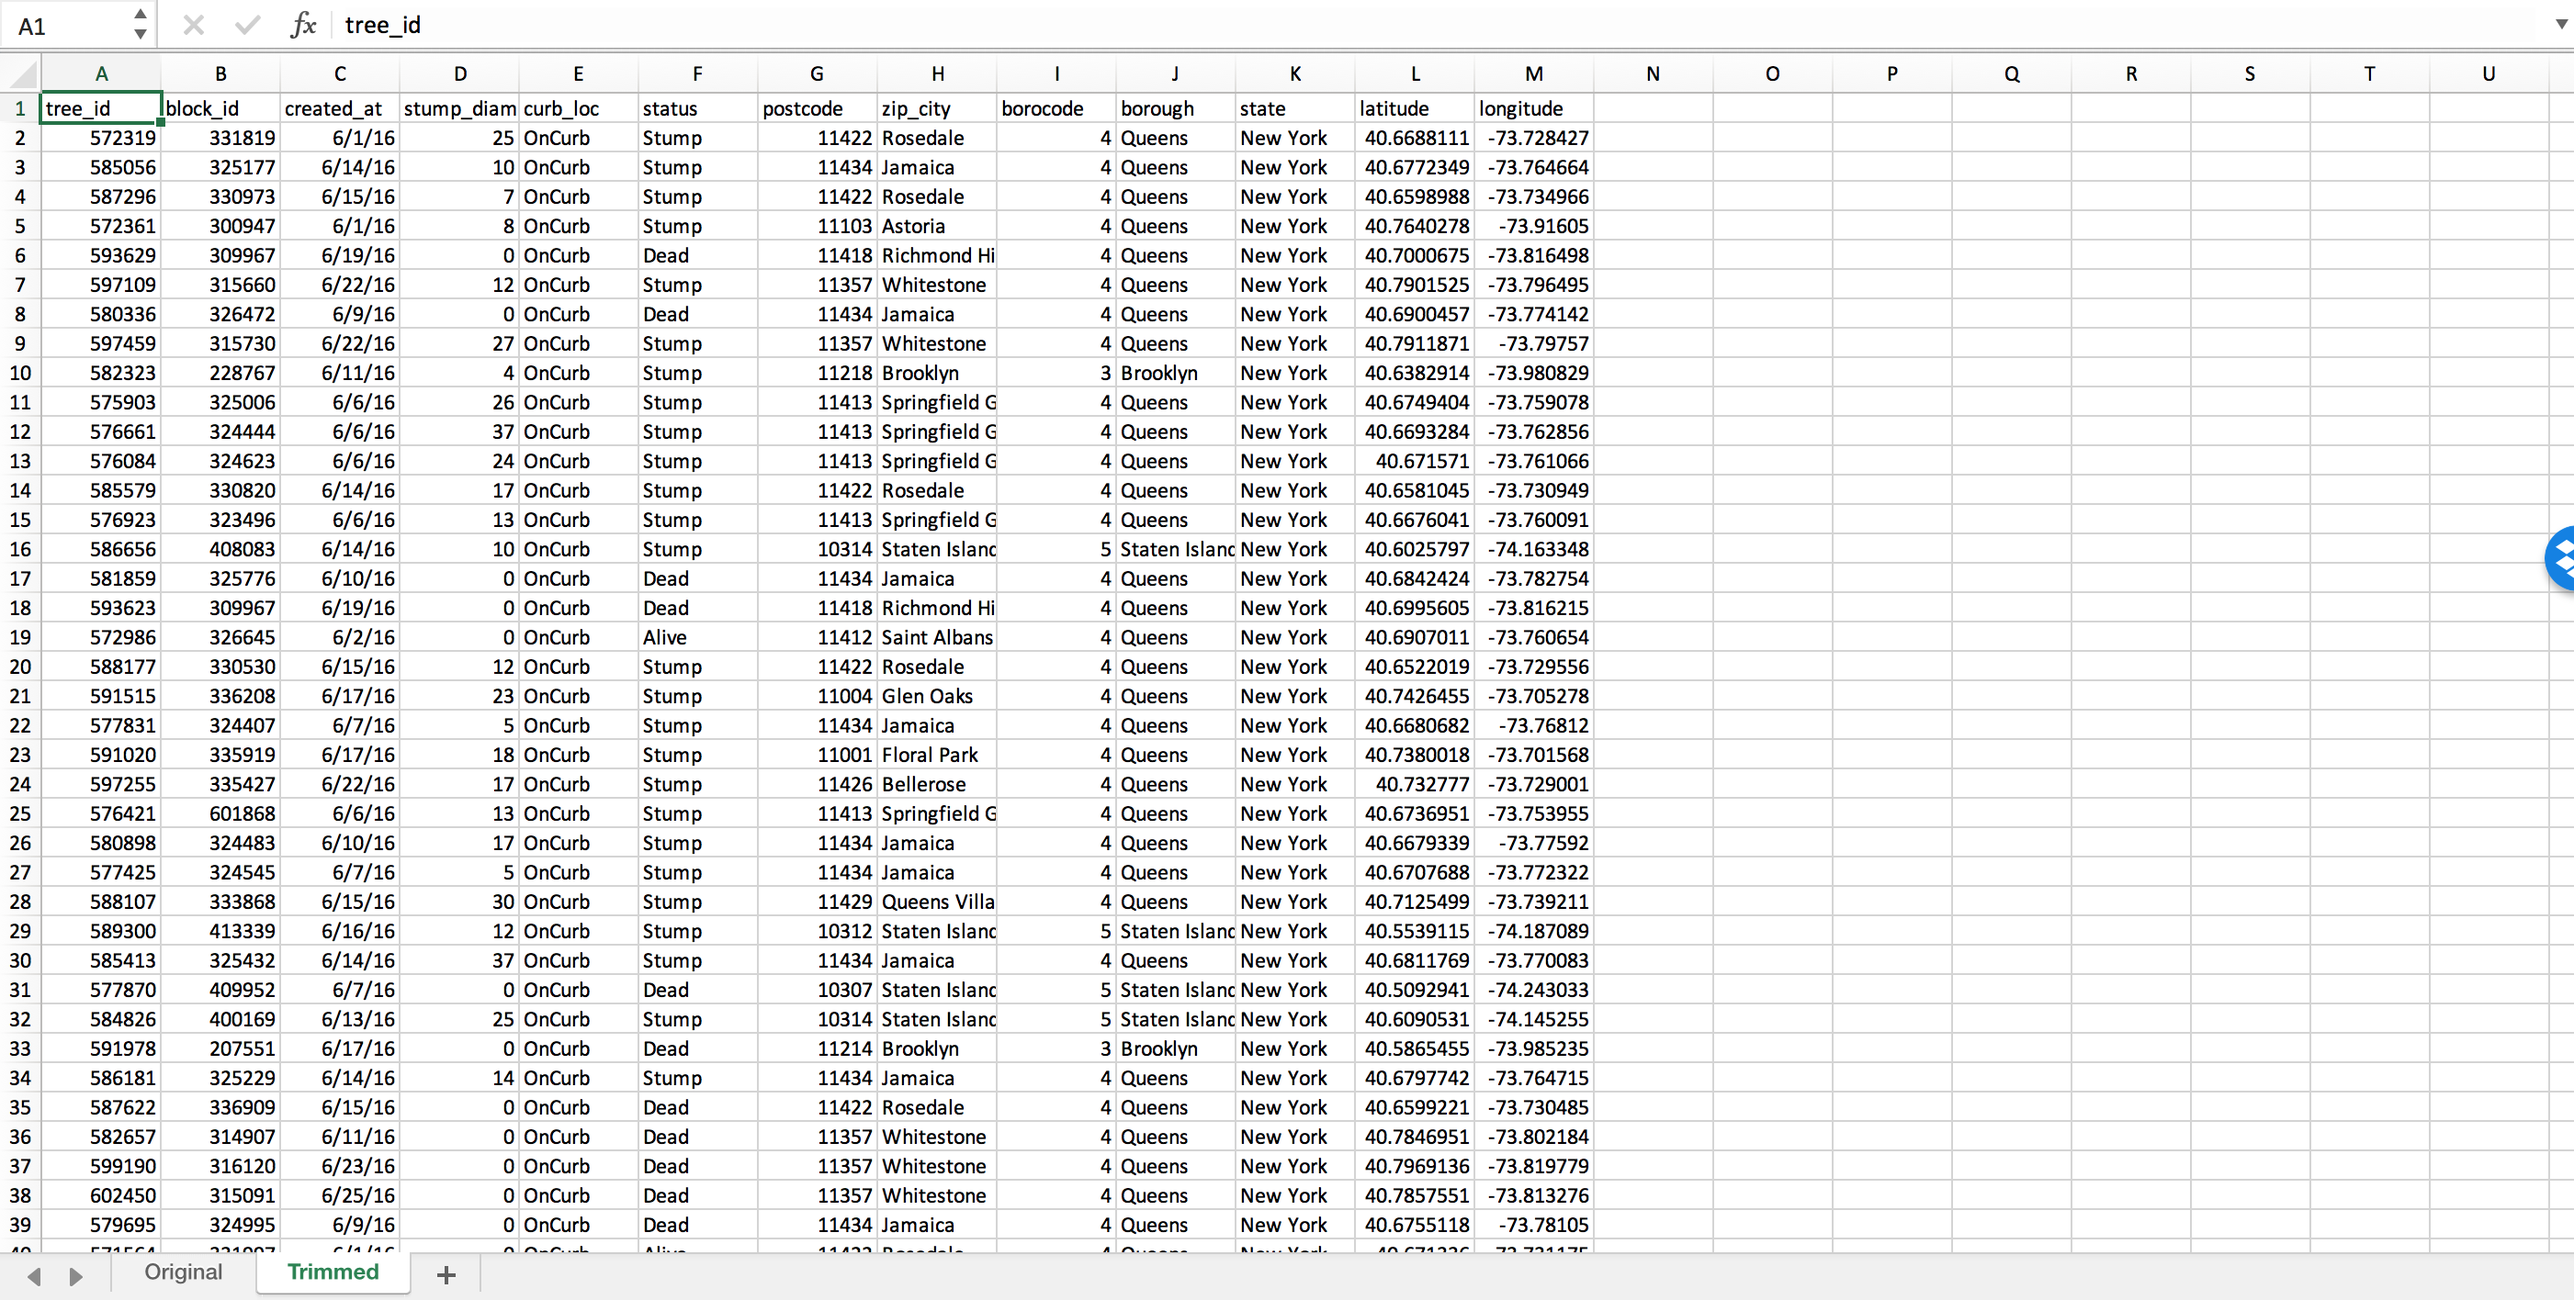
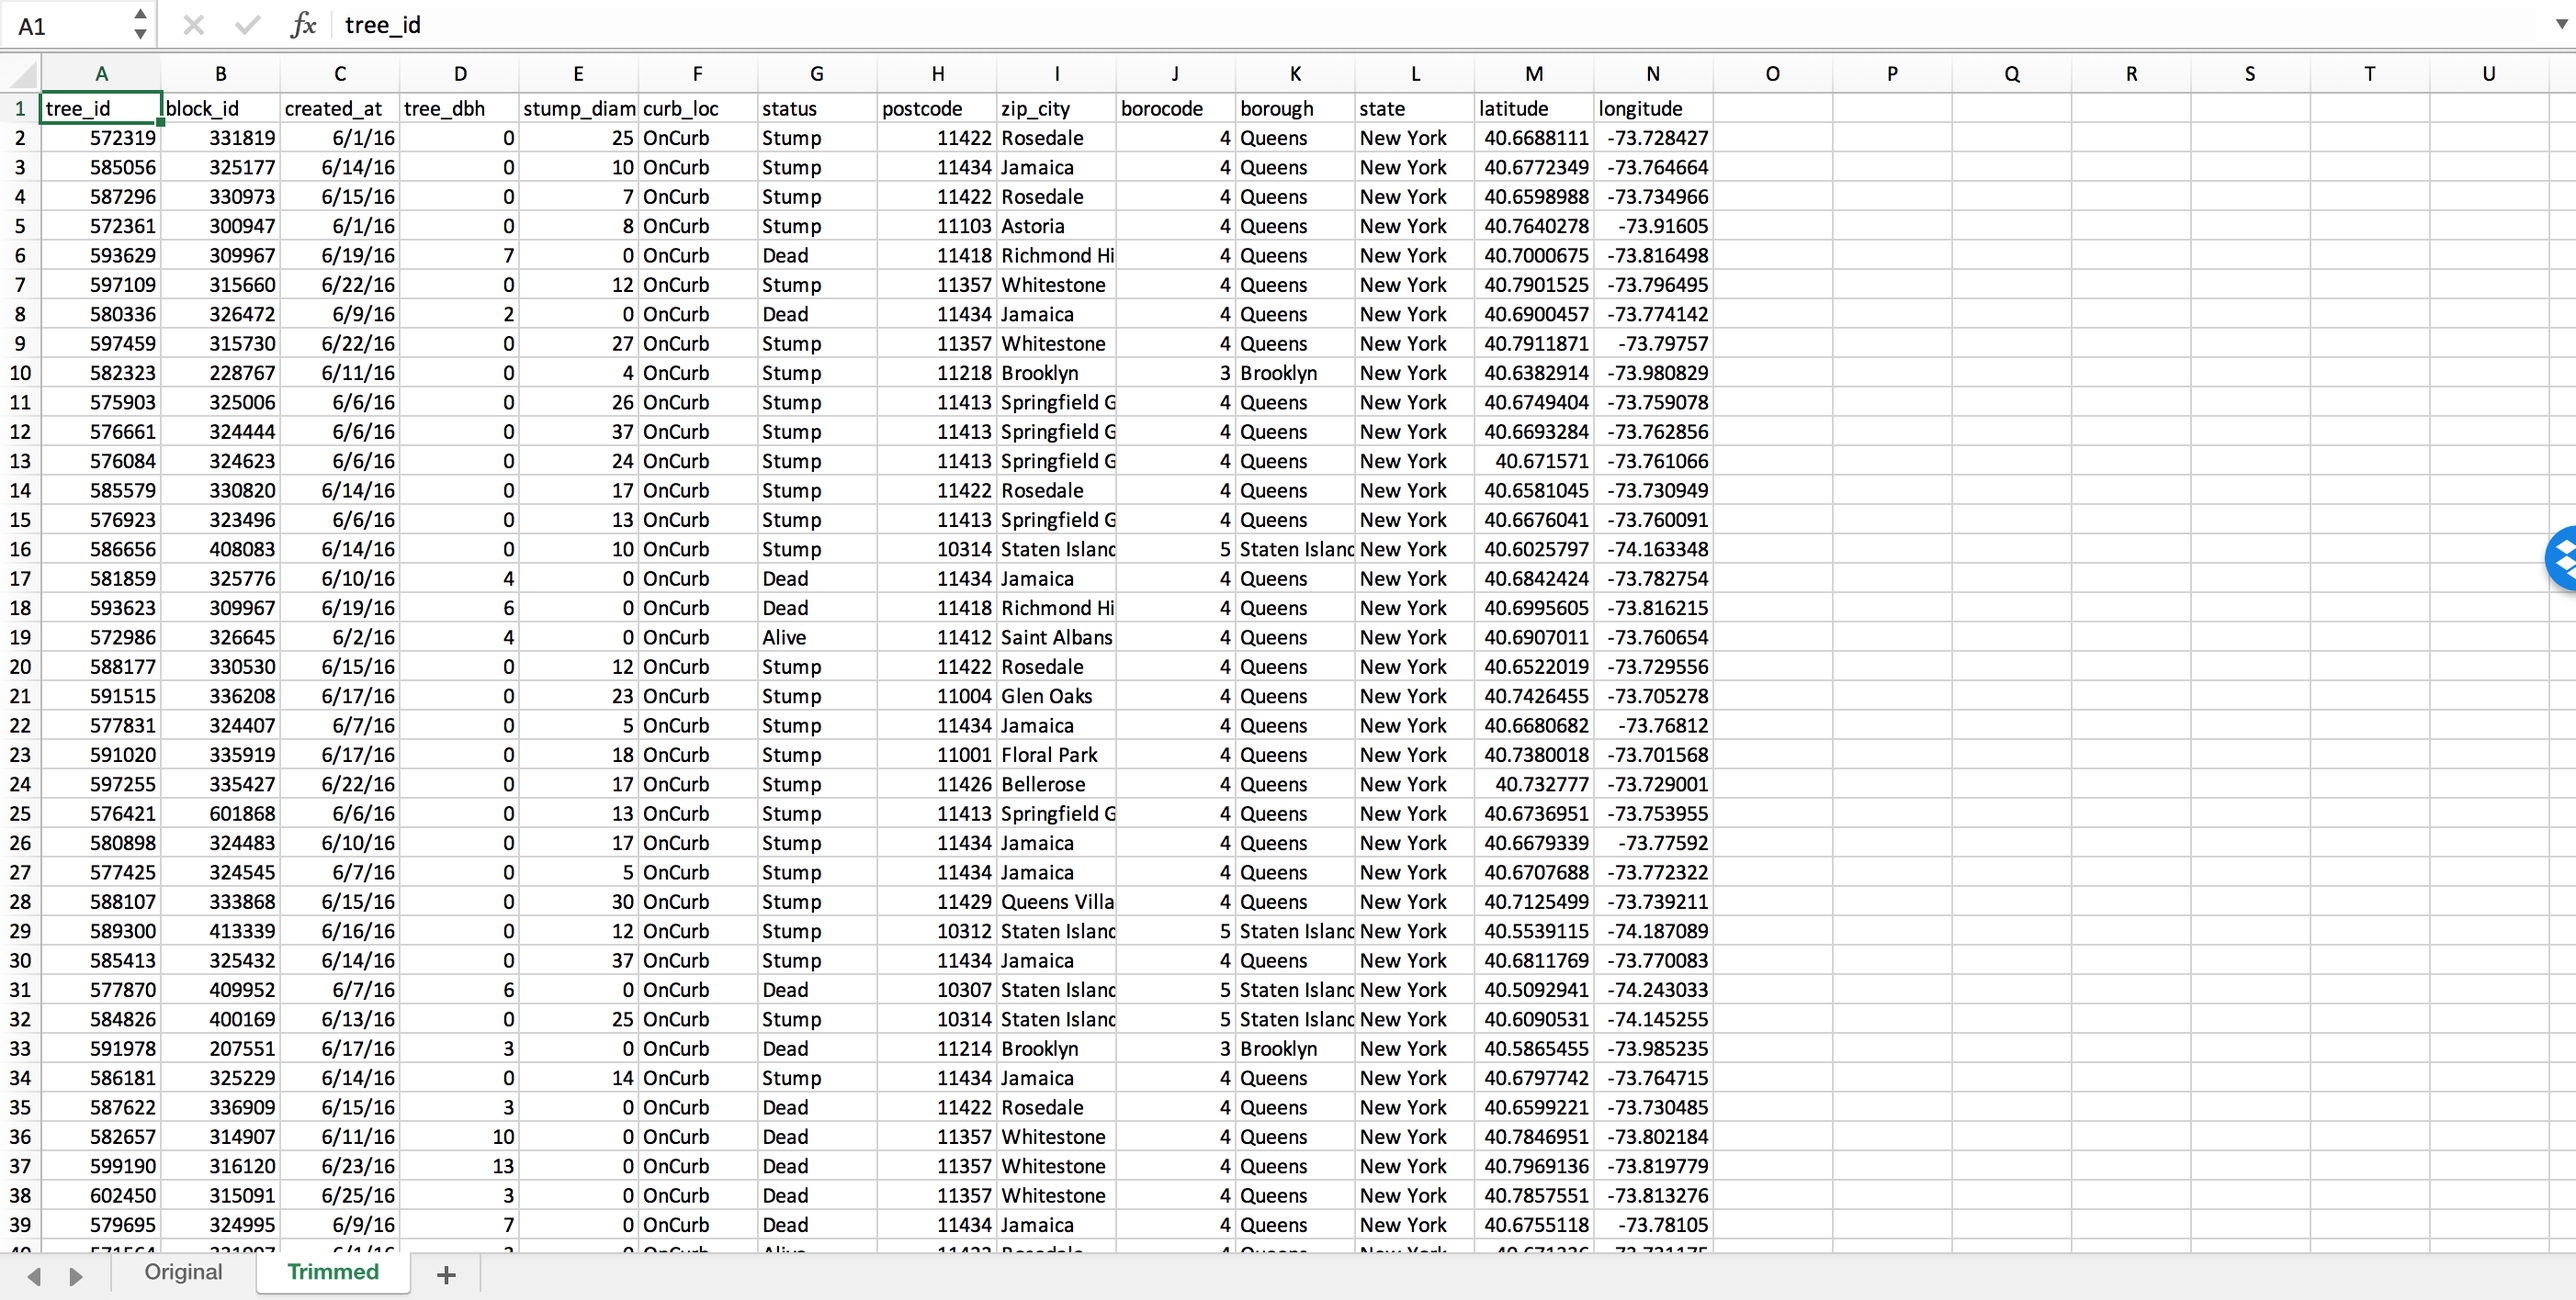
update

Changed region(s): [[0.1552, 0.0621, 0.6831, 0.9633], [0.0931, 0.0932, 0.1552, 0.9633], [0.9936, 0.404, 1.0, 0.4661]]

diff --git a/2018_Fall/Studios/01_Introduction_to_Tableau.md b/2018_Fall/Studios/01_Introduction_to_Tableau.md
@@ -46,6 +46,7 @@ We will be using one dataset for this studio:
 	* `tree_id`
 	* `block_id`
 	* `created_at`
+	* `tree_dbh`
 	* `stump_diam`
 	* `curb_loc`
 	* `status`
@@ -134,6 +135,7 @@ We will be using one dataset for this studio:
 		* `Latitude`
 		* `Longitude`
 		* `Stump Diam`
+		* `Tree Dbh`
 	* Note that geographic data may fall into either of the sections.
 * Tableau makes it incredibly easy to build simple charts. Let's start by creating a bar chart of trees counted over the course of the month we selected. In the left panel, find the `Number of Records` label in the `Measures` section. This is a measure automatically generated by Tableau that gives every item in the dataset you upload a value of `1`. It tells you the number of records in the dataset.
 * Double click `Number of Records`.
